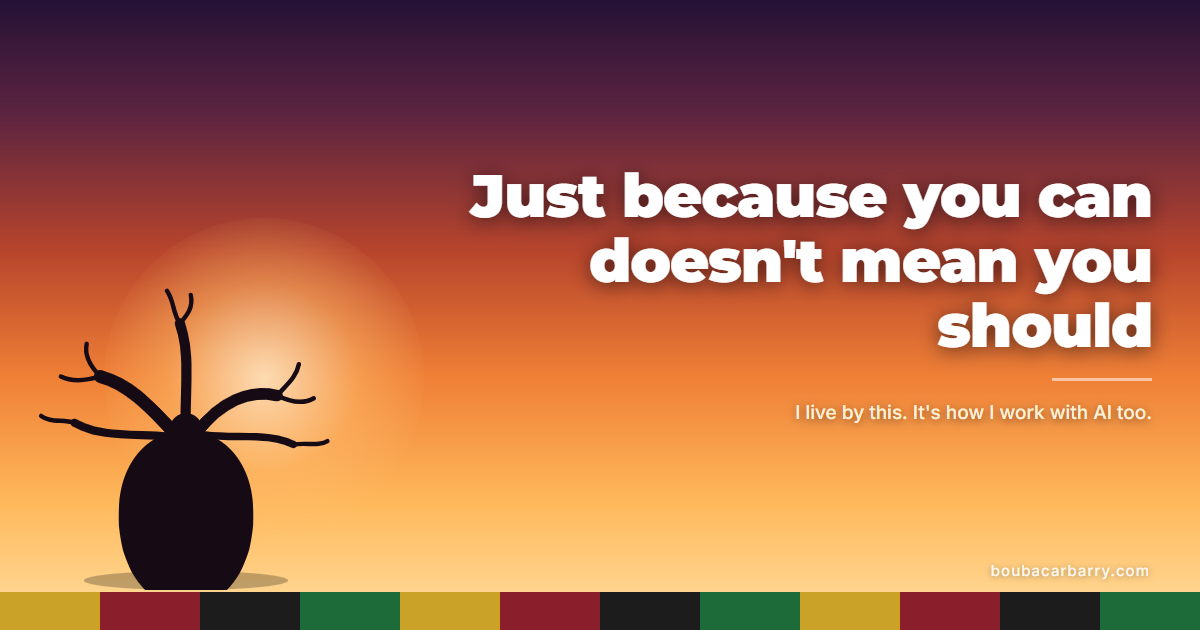
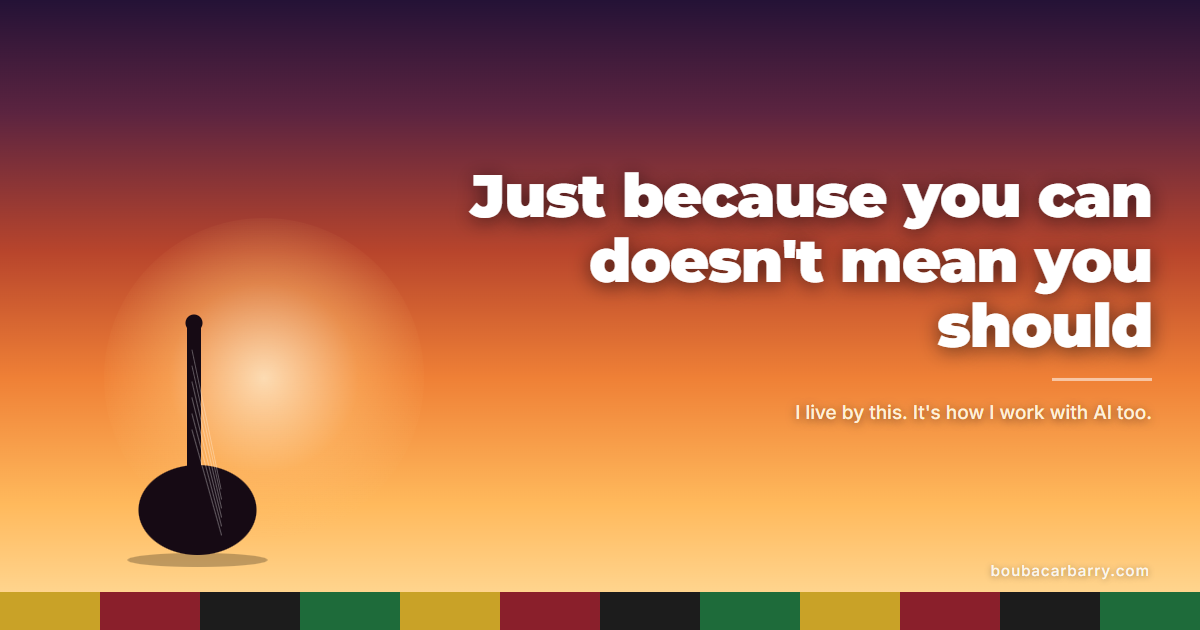
review: update 20260908-quote-poster (2026-09-08)

Changed region(s): [[0.0308, 0.4524, 0.2775, 0.9349]]

diff --git a/review/20260908-quote-poster/index.html b/review/20260908-quote-poster/index.html
@@ -41,7 +41,9 @@
 </style>
 </head>
 <body>
-<!-- DEPLOY_STAMP_START --><style id="deploy-stamp-css">@media (max-width:560px){#deploy-stamp{position:static !important;display:block;top:auto !important;right:auto !important;bottom:auto !important;left:auto !important;width:auto;max-width:calc(100% - 20px);margin:6px 10px 0;}}@media print{#deploy-stamp{position:static !important;}}</style><div id="deploy-stamp" style="position:fixed;top:8px;right:10px;z-index:99999;font-family:ui-monospace,'SF Mono',SFMono-Regular,Menlo,Consolas,monospace;font-size:11px;line-height:1;color:rgba(165,151,131,0.78);background:rgba(20,18,16,0.72);border:1px solid rgba(236,226,210,0.14);border-radius:6px;padding:4px 8px;letter-spacing:0.02em;backdrop-filter:blur(4px);-webkit-backdrop-filter:blur(4px);pointer-events:none;user-select:none;white-space:nowrap;">v2 · 2026-09-08-11:13:07 MT</div><!-- DEPLOY_STAMP_END -->
+<!-- DEPLOY_STAMP_START --><style id="deploy-stamp-css">@media (max-width:560px){#deploy-stamp{position:static !important;display:block;top:auto !important;right:auto !important;bottom:auto !important;left:auto !important;width:auto;max-width:calc(100% - 20px);margin:6px 10px 0;}}@media print{#deploy-stamp{position:static !important;}}</style><div id="deploy-stamp" style="position:fixed;top:8px;right:10px;z-index:99999;font-family:ui-monospace,'SF Mono',SFMono-Regular,Menlo,Consolas,monospace;font-size:11px;line-height:1;color:rgba(165,151,131,0.78);background:rgba(20,18,16,0.72);border:1px solid rgba(236,226,210,0.14);border-radius:6px;padding:4px 8px;letter-spacing:0.02em;backdrop-filter:blur(4px);-webkit-backdrop-filter:blur(4px);pointer-events:none;user-select:none;white-space:nowrap;">v2 · 2026-09-08-11:20:36 MT</div><!-- DEPLOY_STAMP_END -->
+
+
 
 
 
@@ -56,7 +58,7 @@
       credit to Sherrilyn Kenyon, William C. Taylor's <em>Practically Radical</em>, and the pop-culture Jurassic
       Park line). Boubacar has made the call to present it in first person, no quote marks, as a principle he
       holds, not a citation.</p>
-    <span class="badge">Revised twice — Concept C rebuilt, quote marks/third-person copy dropped everywhere, and Concept B's baobab silhouette redrawn to an actual barrel-trunk baobab (was reading as a mushroom-cloud/starburst before)</span>
+    <span class="badge">Revised three times — Concept C rebuilt, quote marks/third-person copy dropped everywhere, and Concept B's tree replaced entirely with a kora silhouette (the tree kept coming out wrong across two redraws, so it's dropped, not fixed a third time)</span>
   </header>
 
   <section class="concept">
@@ -82,28 +84,33 @@
   </section>
 
   <section class="concept">
-    <div class="tag">Concept B — tree redrawn</div>
-    <h2>Baobab at dusk</h2>
-    <p class="sub" style="margin:0 0 14px;">First pass read as a starburst/mushroom-cloud, not a baobab. Redrawn
-      against the real botanical shape (Adansonia digitata): a dominant bottle/barrel trunk carrying most of the
-      visual weight, topped by a small, sparse crown of a few thick, crooked, unevenly-spaced branches with short
-      gnarled twig tips — the "roots in the air" look, not a leafy canopy or symmetric rays.</p>
+    <div class="tag">Concept B — tree dropped, replaced with a kora</div>
+    <h2>Kora at dusk</h2>
+    <p class="sub" style="margin:0 0 14px;">The tree kept coming out wrong across two redraws (starburst, then a
+      shape that still didn't read right) — dropping it rather than trying a third time. Replaced with a kora,
+      the West African 21-string harp-lute, built from real reference proportions (Wikipedia / Britannica / World
+      Music Central): a large round calabash-gourd resonator as the dominant body, a long straight hardwood neck
+      rising well above it with a peg-head knob at the top, a fan of strings running from the neck down to the
+      bridge on the gourd's face, and the small handle nubs at the gourd's shoulders where a player's hands rest.
+      Picked over the balafon (wooden xylophone with gourd resonators) because the kora's round-body-plus-tall-neck
+      shape reads as a distinct, recognizable silhouette at this size — a balafon's horizontal bar-and-gourd row
+      reads more like a generic xylophone from a distance and loses its "African" specificity at silhouette scale.</p>
     <div class="grid">
       <figure>
-        <img src="assets/b-square.png" alt="Concept B square crop, barrel-trunked baobab silhouette with sparse crooked branches against dusk sky">
+        <img src="assets/b-square.png" alt="Concept B square crop, kora silhouette (round gourd body, tall neck, string fan) against dusk sky">
         <figcaption><span>Square / screensaver</span><span>1080×1080</span></figcaption>
       </figure>
       <figure>
-        <img src="assets/b-landscape.png" alt="Concept B landscape crop, barrel-trunked baobab silhouette with sparse crooked branches against dusk sky">
+        <img src="assets/b-landscape.png" alt="Concept B landscape crop, kora silhouette (round gourd body, tall neck, string fan) against dusk sky">
         <figcaption><span>Landscape / feed</span><span>1200×630</span></figcaption>
       </figure>
     </div>
     <div class="colortheory">
-      <b>Color theory:</b> an analogous warm gradient (deep violet to terracotta to gold, all neighboring on the
-      wheel) gives the sky a single continuous mood instead of competing hues, so the eye reads it as one dusk
-      moment rather than a designed palette. The baobab silhouette and kente strip stay pure near-black, which is
-      the actual contrast doing the work here: value contrast (near-black against saturated warm tones), not hue
-      contrast, keeps the tree and the type legible over a busy gradient.
+      <b>Color theory:</b> unchanged from the approved layout — an analogous warm gradient (deep violet to
+      terracotta to gold, all neighboring on the wheel) gives the sky one continuous mood instead of competing
+      hues. The kora silhouette and kente strip stay pure near-black, so the contrast doing the work is value
+      contrast (near-black against saturated warm tones), not hue contrast, keeping the instrument and the type
+      legible over a busy gradient.
     </div>
   </section>
 
@@ -153,6 +160,7 @@ It's the test I run before I let AI touch anything. The tools can do almost what
     and I'll prep the final export.
   </footer>
 </div>
+
 
 
 <!-- REVIEW_FURNITURE_START (managed by scripts/inject-review-furniture.ps1 -- do not hand-edit) -->
@@ -306,6 +314,9 @@ It's the test I run before I let AI touch anything. The tools can do almost what
 <!-- REVIEW_FURNITURE_END -->
 </body>
 </html>
+
+
+
 
 
 

diff --git a/review/index.html b/review/index.html
@@ -507,7 +507,7 @@
     <div class="review-card" data-slug="20260908-li-event-banners-sept-workshops">
       <a class="rc-link" href="/review/20260908-li-event-banners-sept-workshops/">
         <div class="meta">
-          <div class="title">LinkedIn Event Banners &middot; Sept 16 + Sept 24</div>
+          <div class="title">LinkedIn Event Banners - Sept 16 + Sept 24</div>
           <div class="date">Created 2026-09-08</div>
         </div>
         <div class="arrow"><svg viewBox="0 0 24 24" fill="none" stroke="currentColor" stroke-width="2"><path d="M9 18l6-6-6-6"/></svg></div>
